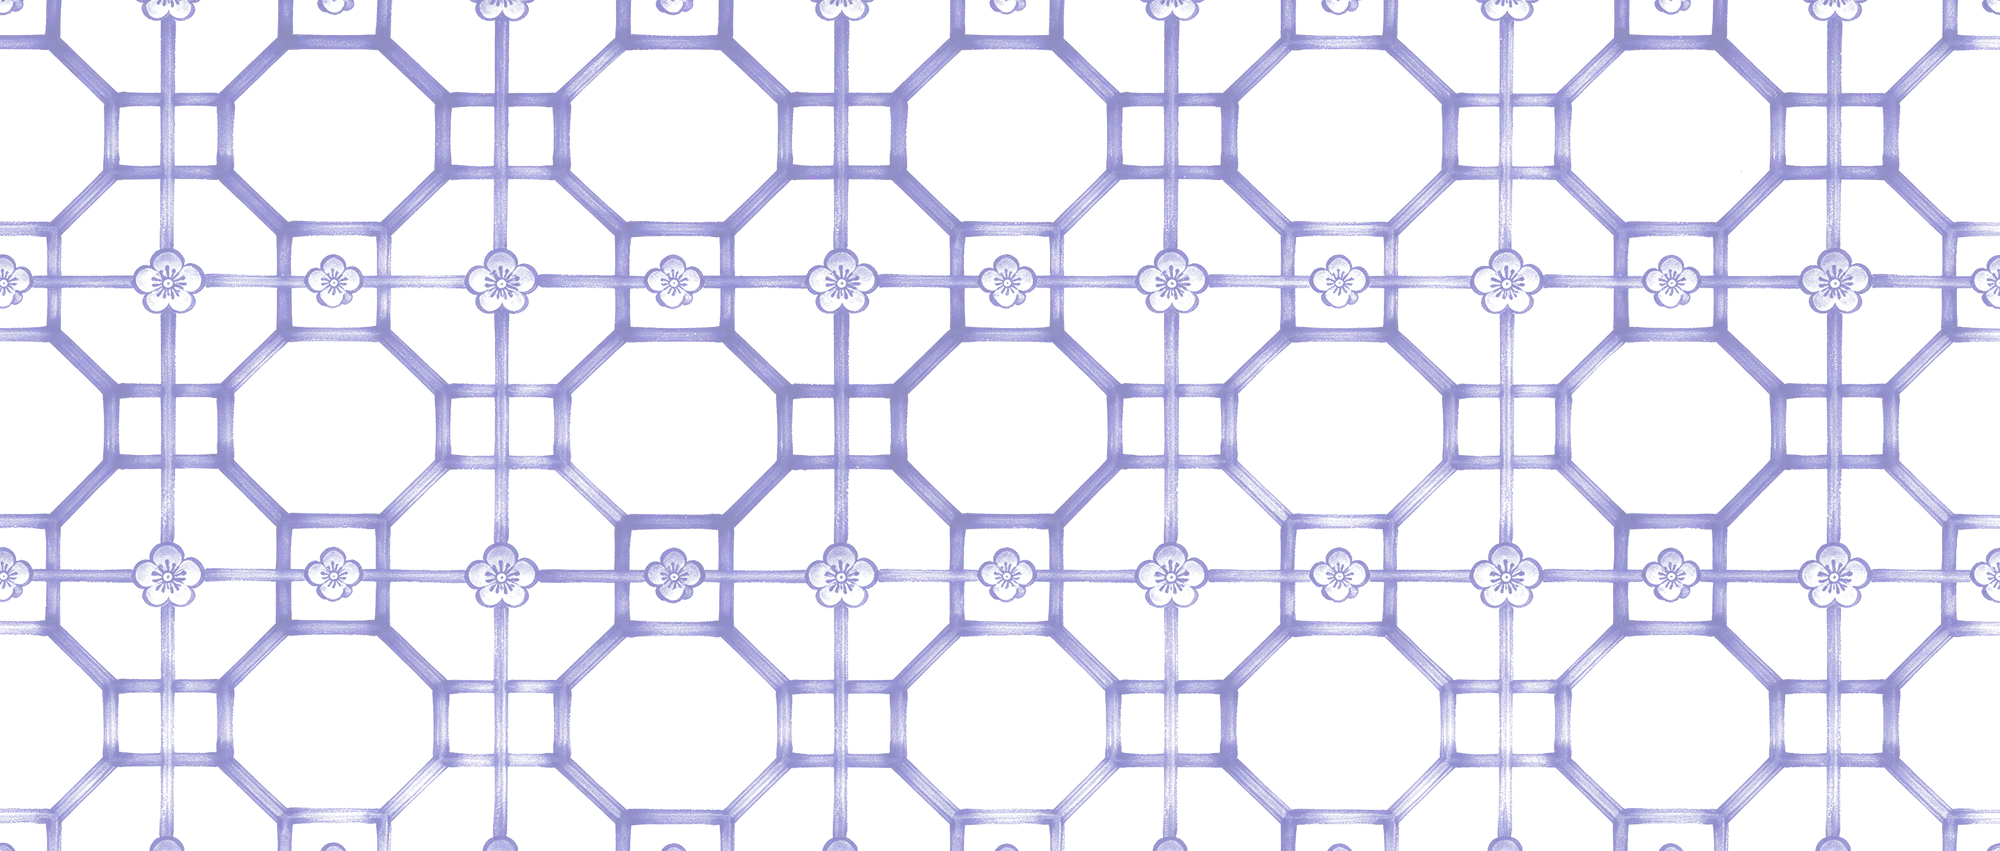
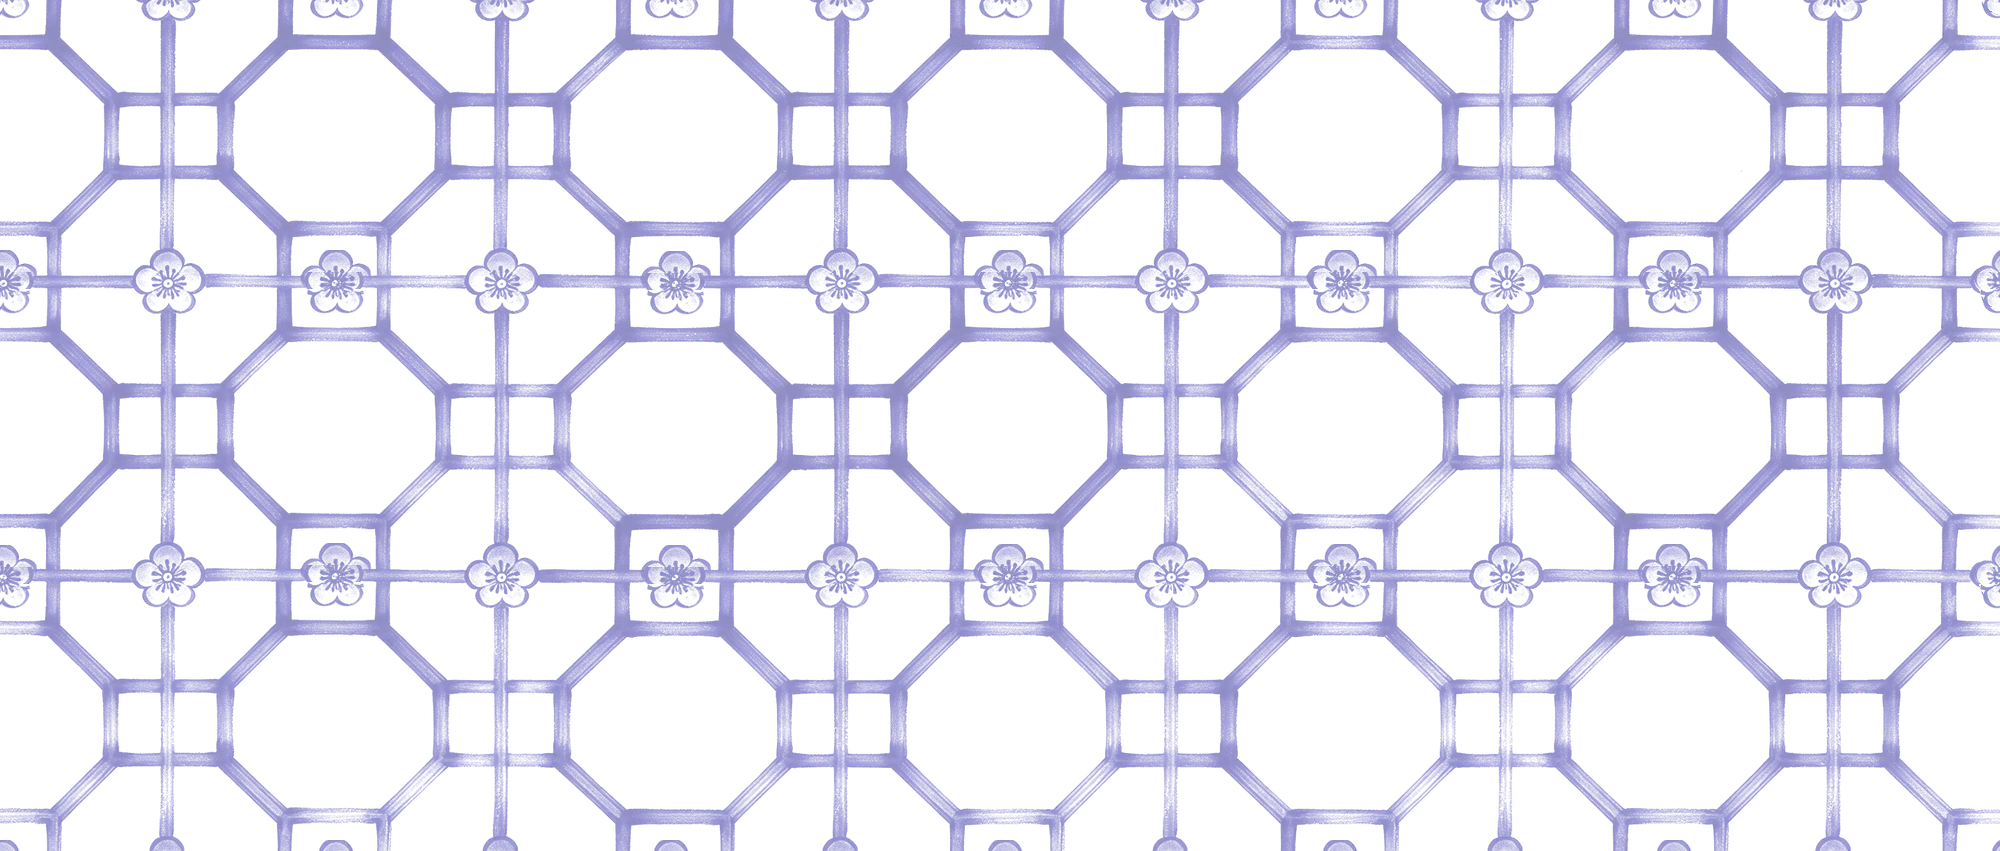
fix: Workshop header flush under the nav, five-petal flowers throughout, feathered frost; flags side by side on phones

diff --git a/docs/HANDOFF.md b/docs/HANDOFF.md
@@ -238,6 +238,11 @@ latency, plus GPU load that hurts weaker devices. Fixes:
 - Proven results: just the number and its label (project names gone), more space between them.
 - Outside of work: the section title is the big one (display-xl); Fitness and Side projects one step under it (display-md).
 
+## Round 12n (2026-11-07)
+
+- Workshop header flush under the nav. Every lattice flower is five-petal now: the four-petal ones in the small squares replaced by the painting's own five-petal flower (`art/round12/lattice-petals.mjs`, from `art/round12/lattice-octagon-before.webp`; petal-shaped mask, the horizontal bar kept behind). The frosted patch feathers out on every side (a radial mask on `.ws-head__inner::before`); on phones it stays inside the window, clear of the bottom rail.
+- Acknowledgement flags: stacked beside the words on wide screens, side by side on phones (where the words drop underneath).
+
 ## Next steps
 
 Everything through round 12 is committed and pushed to GitHub (`main`) and live on Vercel: https://edwynchen-portfolio.vercel.app.
